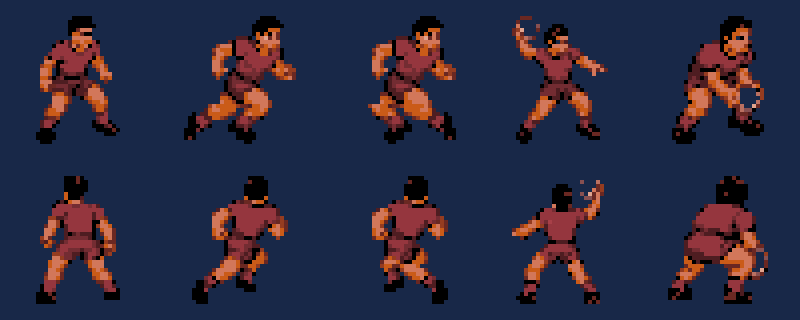
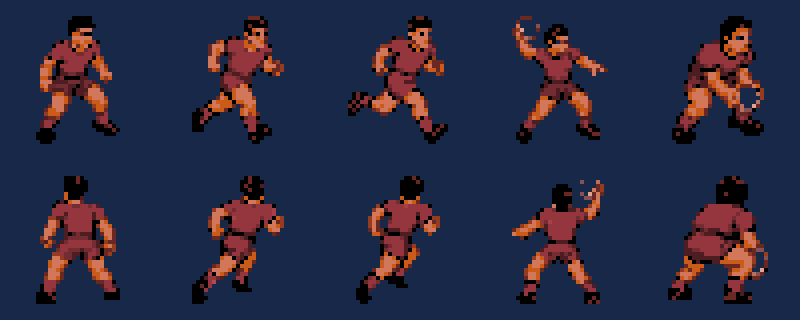
Replace mirrored run cycle with directional poses

diff --git a/src/scene_match.c b/src/scene_match.c
@@ -207,6 +207,7 @@ static u8 closest_in_play(Player team[], s16 x, s16 y)
 static bool move_toward_ball(Player *p)
 {
     bool moved = FALSE;
+    s16 oldX = p->x;
     s16 targetX = ball.x - 4;
     s16 targetY = ball.y - 5;
     if (p->x < targetX - 1) { p->x += PLAYER_SPEED; moved = TRUE; }
@@ -214,6 +215,7 @@ static bool move_toward_ball(Player *p)
     if (p->y < targetY - 1) { p->y++; moved = TRUE; }
     else if (p->y > targetY + 1) { p->y--; moved = TRUE; }
     player_clampToCourt(p);
+    if (p->x != oldX) p->facingLeft = (p->x < oldX);
     return moved;
 }
 
@@ -225,6 +227,7 @@ static bool move_ambient(Player *p, u8 slot)
     s16 targetX = p->homeX + offsetX[beat];
     s16 targetY = p->homeY + offsetY[beat];
     bool moved = FALSE;
+    s16 oldX = p->x;
 
     /* One-pixel corrections make players look alert without turning their
      * idle movement into constant high-speed chasing. */
@@ -236,7 +239,18 @@ static bool move_ambient(Player *p, u8 slot)
         else if (p->y > targetY) { p->y--; moved = TRUE; }
     }
     player_clampToCourt(p);
+    if (p->x != oldX) p->facingLeft = (p->x < oldX);
     return moved;
+}
+
+static void place_ball_in_hand(Player *p, bool windup)
+{
+    s16 direction = p->facingLeft ? -1 : 1;
+    /* Both camera banks use the outward throwing hand. Rear-view holders
+     * keep the ball beyond the shoulder rather than pasted over the chest;
+     * front-view holders carry it just in front of the torso. */
+    ball.x = p->x + (p->facingLeft ? -3 : 9) + (windup ? direction * 4 : 0);
+    ball.y = p->y - (p->farSide ? 8 : 11) - (windup ? 5 : 0);
 }
 
 /* A/B/C address the visible left/middle/right opponent lanes. If that
@@ -283,7 +297,7 @@ static void eliminate_from(Player team[], u8 idx)
     player_eliminate(&team[idx]);
 }
 
-static void reset_team(Player team[], u8 baseSlot, u8 pal, s16 baseDepth, bool facingLeft)
+static void reset_team(Player team[], u8 baseSlot, u8 pal, s16 baseDepth, bool farSide)
 {
     static const s8 depthOffset[TEAM_SIZE] = { -8, 10, 0 };
     u8 i;
@@ -292,8 +306,8 @@ static void reset_team(Player team[], u8 baseSlot, u8 pal, s16 baseDepth, bool f
         s16 x = lane_x(i);
         s16 y = baseDepth + depthOffset[i] + (x >> 2);
         player_init(&team[i], x, y, baseSlot + i, pal);
-        team[i].farSide = facingLeft;
-        team[i].facingLeft = facingLeft;
+        team[i].farSide = farSide;
+        team[i].facingLeft = farSide;
     }
 }
 
@@ -369,12 +383,14 @@ static void begin_announce(void)
     if (server == 0)
     {
         holderA = activeA;
-        ball_init(&ball, SLOT_BALL, teamA[holderA].x + 9, teamA[holderA].y - 11, BALL_HELD_A);
+        ball_init(&ball, SLOT_BALL, 0, 0, BALL_HELD_A);
+        place_ball_in_hand(&teamA[holderA], FALSE);
     }
     else
     {
         holderB = first_in_play_from(teamB, ai_pickSlot(TEAM_SIZE));
-        ball_init(&ball, SLOT_BALL, teamB[holderB].x - 3, teamB[holderB].y - 8, BALL_HELD_B);
+        ball_init(&ball, SLOT_BALL, 0, 0, BALL_HELD_B);
+        place_ball_in_hand(&teamB[holderB], FALSE);
     }
 }
 
@@ -626,8 +642,7 @@ void scene_match_update(void)
 
         case MS_A_HOLD:
         {
-            ball.x = teamA[holderA].x + 9;
-            ball.y = teamA[holderA].y - 11;
+            place_ball_in_hand(&teamA[holderA], FALSE);
 
             if (activeA == holderA &&
                 (input_pressed(BUTTON_A) || input_pressed(BUTTON_B) ||
@@ -648,8 +663,7 @@ void scene_match_update(void)
 
         case MS_A_WINDUP:
         {
-            ball.x = teamA[holderA].x + (windupTimer < 4 ? 13 : 9);
-            ball.y = teamA[holderA].y - (windupTimer < 4 ? 17 : 11);
+            place_ball_in_hand(&teamA[holderA], windupTimer < 4);
             if (windupTimer > 0) windupTimer--;
             else
             {
@@ -663,6 +677,7 @@ void scene_match_update(void)
 
         case MS_B_HOLD:
         {
+            place_ball_in_hand(&teamB[holderB], FALSE);
             if (aiDelay > 0) aiDelay--;
             else
             {
@@ -683,8 +698,7 @@ void scene_match_update(void)
 
         case MS_B_WINDUP:
         {
-            ball.x = teamB[holderB].x - (windupTimer < 4 ? 7 : 3);
-            ball.y = teamB[holderB].y - (windupTimer < 4 ? 14 : 8);
+            place_ball_in_hand(&teamB[holderB], windupTimer < 4);
             if (windupTimer > 0) windupTimer--;
             else
             {
@@ -730,8 +744,8 @@ void scene_match_update(void)
             {
                 sound_mgr_pickup();
                 player_setPose(&teamB[holderB], POSE_PICKUP, 10);
-                ball_init(&ball, SLOT_BALL, teamB[holderB].x - 3,
-                          teamB[holderB].y - 8, BALL_HELD_B);
+                ball_init(&ball, SLOT_BALL, 0, 0, BALL_HELD_B);
+                place_ball_in_hand(&teamB[holderB], FALSE);
                 aiDelay = ai_pickThrowDelay();
                 state = MS_B_HOLD;
             }
@@ -746,8 +760,8 @@ void scene_match_update(void)
                 holderA = activeA;
                 sound_mgr_pickup();
                 player_setPose(&teamA[holderA], POSE_PICKUP, 10);
-                ball_init(&ball, SLOT_BALL, teamA[holderA].x + 9,
-                          teamA[holderA].y - 11, BALL_HELD_A);
+                ball_init(&ball, SLOT_BALL, 0, 0, BALL_HELD_A);
+                place_ball_in_hand(&teamA[holderA], FALSE);
                 state = MS_A_HOLD;
             }
             break;

diff --git a/tools/build_isometric_sprites.py b/tools/build_isometric_sprites.py
@@ -17,6 +17,7 @@ from PIL import Image
 ROOT = Path(__file__).resolve().parents[1]
 SOURCE = ROOT / "assets" / "player_isometric_sheet.png"
 BACK_SOURCE = ROOT / "assets" / "player_isometric_back_sheet_v2.png"
+RUN_SOURCE = ROOT / "assets" / "player_run_cycle_v2.png"
 OUTPUT = ROOT / "src" / "player_isometric_tiles.inc"
 PREVIEW = ROOT / "assets" / "player_isometric_preview.png"
 
@@ -34,14 +35,6 @@ PALETTE = {
 KIT = (2, 5, 6, 7, 12, 13, 14)
 FIXED = (1, 3, 4, 8, 9, 10, 11, 15)
 POSES = ("stand", "run", "throw", "catch")
-
-
-def alternate_stride(canvas):
-    """Swap the legs without reversing the player's upper-body facing."""
-    result = [row[:] for row in canvas]
-    for y in range(22, 32):
-        result[y] = list(reversed(canvas[y]))
-    return result
 
 
 def remove_green_key(image):
@@ -137,13 +130,13 @@ def encode_far(canvas):
     return tiles
 
 
-def build_canvases(image):
+def build_canvases(image, pose_names=POSES):
     boxes = sorted((box for _, box in components(image.getchannel("A"))), key=lambda b: b[0])
-    if len(boxes) != 4:
-        raise SystemExit(f"Expected four player components, found {len(boxes)}")
+    if len(boxes) != len(pose_names):
+        raise SystemExit(f"Expected {len(pose_names)} player components, found {len(boxes)}")
 
     pose_canvases = {}
-    for pose, box in zip(POSES, boxes):
+    for pose, box in zip(pose_names, boxes):
         sprite = image.crop(box)
         sw, sh = sprite.size
         scale = min(30 / sw, 32 / sh)
@@ -160,9 +153,13 @@ def build_canvases(image):
 
 def main():
     front = build_canvases(Image.open(SOURCE).convert("RGBA"))
-    front["run_alt"] = alternate_stride(front["run"])
     back = build_canvases(remove_green_key(Image.open(BACK_SOURCE)))
-    back["run_alt"] = alternate_stride(back["run"])
+    runs = build_canvases(remove_green_key(Image.open(RUN_SOURCE)),
+                          ("front_run", "front_run_alt", "back_run", "back_run_alt"))
+    front["run"] = runs["front_run"]
+    front["run_alt"] = runs["front_run_alt"]
+    back["run"] = runs["back_run"]
+    back["run_alt"] = runs["back_run_alt"]
 
     preview = Image.new("RGB", (5 * 40, 2 * 40), (24, 40, 72))
     for row, canvases in enumerate((front, back)):

diff --git a/src/player.c b/src/player.c
@@ -46,6 +46,7 @@ bool player_updateExit(Player *p)
      * the run belongs to the same isometric ground plane as normal play. */
     p->x += 3;
     p->y += 1;
+    p->facingLeft = FALSE;
     if (p->x > SCREEN_W + 24)
     {
         p->x = OFFSCREEN_X;
@@ -68,6 +69,7 @@ void player_restore(Player *p)
 
 void player_moveHuman(Player *p)
 {
+    s16 oldX = p->x;
     /* Both world axes project diagonally in the reference camera.
      * This makes every d-pad direction change screen X and Y instead
      * of sliding players along one flat horizontal baseline. */
@@ -77,6 +79,7 @@ void player_moveHuman(Player *p)
     if (input_held(BUTTON_DOWN))  { p->x -= 1; p->y += 2; }
 
     player_clampToCourt(p);
+    if (p->x != oldX) p->facingLeft = (p->x < oldX);
 
     /* Animation is advanced once, centrally, after the match state update.
      * Ticking here as well made the controlled player run at double cadence. */
@@ -148,15 +151,18 @@ void player_draw(Player *p)
     /* Hardware sprites form a linked list starting at slot 0; a sprite
      * whose slot isn't reachable via some other sprite's "link" is never
      * rendered. We keep a fixed chain: slot N links to slot N+1. */
-    bool backView = !p->facingLeft;
+    /* Court side selects the camera-facing animation bank; horizontal
+     * movement only mirrors that bank. This preserves true front/rear
+     * anatomy while letting runners face their actual travel direction. */
+    bool backView = !p->farSide;
     u16 base = backView ? TILE_PLAYER_BACK_STAND : TILE_PLAYER_FRONT_STAND;
-    bool flip = FALSE;
+    bool flip = p->facingLeft;
     s16 poseOffsetX = 0;
     s16 poseOffsetY = 0;
     s16 direction = p->facingLeft ? -1 : 1;
 
-    /* Animation never changes team facing. The second run beat is a subtle
-     * body bob, so the silhouette keeps looking toward the opposition. */
+    /* RUN and RUN_ALT are separately authored contact poses with exactly
+     * two legs each; no partial-row reflection or ghost limbs. */
     if (p->pose == POSE_RUN)
     {
         static const s8 runX[4] = { -1, 0, 1, 0 };

diff --git a/src/scene_menu.c b/src/scene_menu.c
@@ -58,6 +58,8 @@ static void draw_selector(void)
     sprites_data_apply_teams(gTeamAIndex, gTeamBIndex);
     player_init(&previewA, 258, PREVIEW_Y, SLOT_PREVIEW_A, PAL_TEAM_A);
     player_init(&previewB, 298, PREVIEW_Y, SLOT_PREVIEW_B, PAL_TEAM_B);
+    previewA.farSide = TRUE;
+    previewB.farSide = TRUE;
     previewA.facingLeft = FALSE;
     previewB.facingLeft = TRUE;
     if (phase == MENU_TEAM_A)
@@ -86,6 +88,8 @@ static void enter_matchup(void)
     flag_data_draw_matchup(gTeamAIndex, gTeamBIndex);
     player_init(&previewA, 106, 152, SLOT_PREVIEW_A, PAL_TEAM_A);
     player_init(&previewB, 214, 152, SLOT_PREVIEW_B, PAL_TEAM_B);
+    previewA.farSide = FALSE;
+    previewB.farSide = TRUE;
     previewA.facingLeft = FALSE;
     previewB.facingLeft = TRUE;
     bobCounter = 0;

diff --git a/src/ball.c b/src/ball.c
@@ -202,7 +202,8 @@ void ball_draw(Ball *b)
     bool inFlight = (b->state == BALL_FLYING_TO_A) || (b->state == BALL_FLYING_TO_B);
     s16 drawY = b->y;
     u16 ballTile = TILE_BALL16_FRAME_0;
-    u16 netPriority = ((b->y - (b->x >> 2)) >= COURT_CENTER_DEPTH) ? 1 : 0;
+    bool held = (b->state == BALL_HELD_A) || (b->state == BALL_HELD_B);
+    u16 netPriority = !held && ((b->y - (b->x >> 2)) >= COURT_CENTER_DEPTH) ? 1 : 0;
 
     if (inFlight)
     {

diff --git a/src/player.h b/src/player.h
@@ -32,7 +32,7 @@ typedef struct {
     u8  animCounter;  /* frame counter that paces the run cycle */
     u8  small;        /* TRUE = render the dedicated 24x24 far-side size */
     bool farSide;     /* gameplay half, independent of visual sprite scale */
-    bool facingLeft;  /* stable team direction: every player faces opposition */
+    bool facingLeft;  /* horizontal travel direction; mirrors current front/rear bank */
 } Player;
 
 void player_init(Player *p, s16 startX, s16 y, u8 spriteSlot, u8 pal);

diff --git a/docs/planning.md b/docs/planning.md
@@ -1017,3 +1017,23 @@ now provides repeatable focused-window input and lossless emulator captures for 
 Clean SGDK rebuild and Fusion capture QA confirmed the matchup preview, correct rear anatomy,
 smaller held ball, far-side net occlusion, animated off-ball positioning, realistic grandstand and
 uncorrupted HUD. The hardware capture is preserved as `assets/fusion_match_v3_qa.png`.
+
+---
+
+## Directional two-leg run cycle and hand anchoring (2026-07-22)
+
+- Replaced the procedural lower-row leg reflection with a dedicated four-pose run source:
+  front contact/opposite-contact and rear contact/opposite-contact. Every frame has exactly two
+  thighs, two connected lower legs and two feet, removing the four-leg/ghost-limb transition.
+- `Player.farSide` now exclusively selects true front versus true rear animation artwork.
+  `Player.facingLeft` exclusively mirrors that artwork according to actual horizontal movement,
+  including human input, loose-ball pursuit, ambient repositioning and right-side elimination runs.
+- Held-ball and wind-up placement now share one hand-anchor function. The anchor changes sides when
+  the player turns, sits beyond the shoulder on rear-view players, in front of the torso on
+  front-view players, and extends outward/upward during the release anticipation.
+- Held balls use player-level priority rather than the loose-ball net-depth priority, preventing a
+  near-side held ball from being pasted indiscriminately over the rear-view torso.
+
+The authored run reference is preserved as `assets/player_run_cycle_v2.png`; the deterministic
+converter output and preview are regenerated from it. Clean SGDK build and Fusion QA confirmed
+front/rear matchup previews, stable live held-ball placement and uncorrupted match rendering.